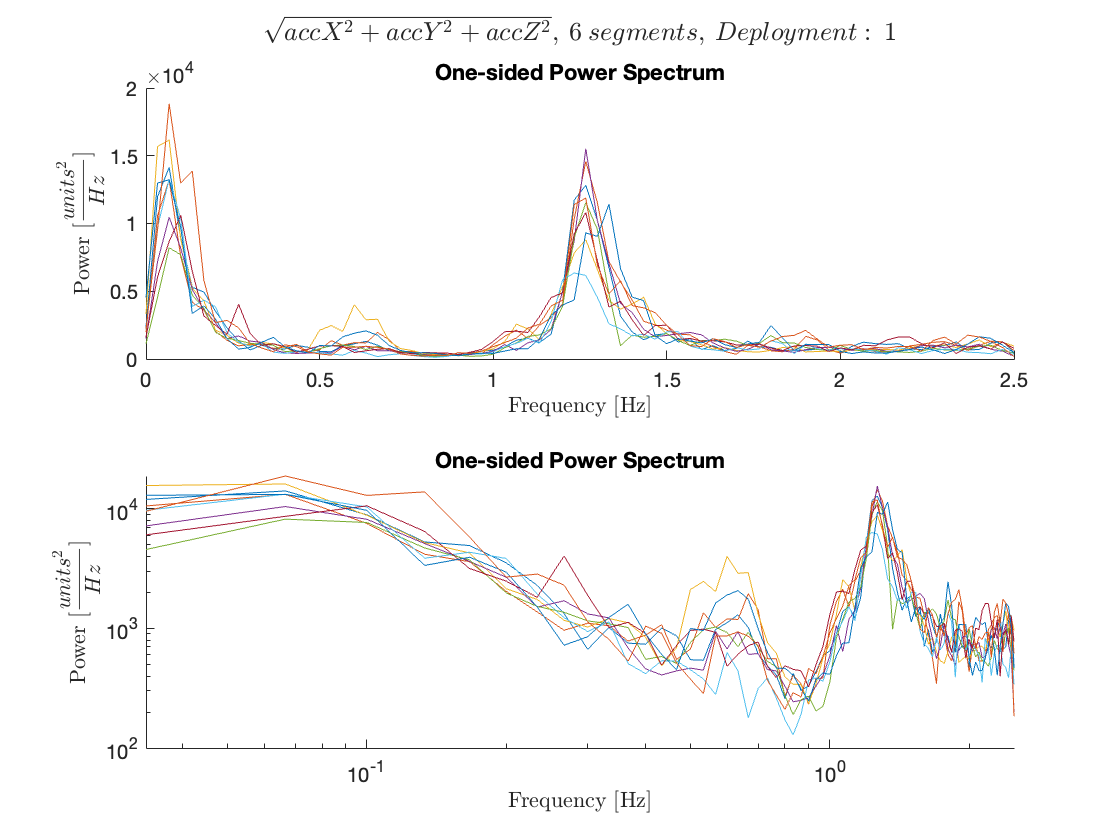
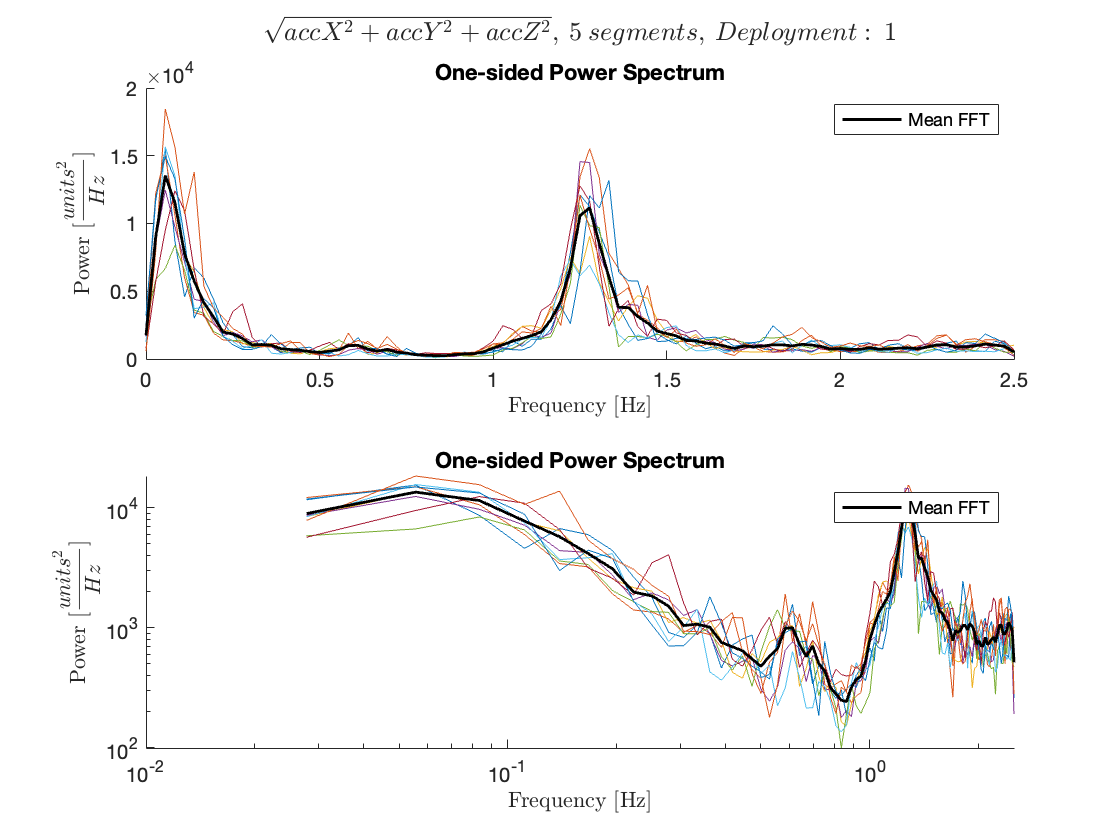
added bode plot of filter

diff --git a/Gabe_Data_Analysis/gabe_data_analysis.m b/Gabe_Data_Analysis/gabe_data_analysis.m
@@ -4,13 +4,11 @@ clc;
 
 % Author: Gabriel Gekas
 
-deployment = 1; % choose deployment
+deployment = 2; % choose deployment
 
 dirpath = strrep(pwd, 'Gabe_Data_Analysis', 'drifter'); % get data directory
 dirs = {'/data_dep1', '/data_dep2'}; % define deployments
 DIR = [dirpath, dirs{deployment}];
-start_index = [3, 1]; % start of data file deployment
-end_index = [11, 10]; % end of data file deployment
 
 csvFiles = dir(fullfile(DIR, '*.CSV')); % gets all .csv files
 for i = 1:length(csvFiles)
@@ -19,30 +17,36 @@ for i = 1:length(csvFiles)
     data{i} = readtable(filepath);
 end
 
+start_index = [3, 13]; % start of data file deployment
+end_index = [11, length(csvFiles)-1]; % end of data file deployment
+
 fe = 5; % sampling rate in Hz
-fcut = 1/50; % cutoff frequencies for highpass filter
-order = 2; % order of butterworth highpass filter
+fcut = 1/40; % cutoff frequencies for highpass filter
+order = 4; % order of butterworth highpass filter
 count = 1;
+
+
+figure; hold on;
 for i = start_index(deployment):end_index(deployment)
-    % acc_x{count} = data{i}.accX;
-    % acc_y{count} = data{i}.accY;
-    % acc_z{count} = data{i}.accZ;
-    % 
-    % vel_x{count} = cumtrapz(acc_x{count});
-    % vel_y{count} = cumtrapz(acc_y{count});
-    % vel_z{count} = cumtrapz(acc_z{count});
-    % 
-    % disp_x{count} = cumtrapz(cumtrapz(acc_x{count}));
-    % disp_y{count} = cumtrapz(cumtrapz(acc_y{count}));
-    % disp_z{count} = cumtrapz(cumtrapz(acc_z{count}));
+    plot((i-1)*length(data{i}.accZ) + [1:length(data{i}.accZ)], data{i}.accZ)
+
     ACC = [data{i}.accX, data{i}.accY, data{i}.accZ]';
     [acc{count}, vel{count}, disp{count}] = compute_DISP_high_pass(ACC, fe, fcut, order);
 
     count = count + 1;
 end
 
+
+
+% %% plot the filter :
+% Ordercut=order;
+% Wcut=2*fcut/fe;
+% [b,a] = butter(Ordercut,Wcut,'high');
+% freqz(b,a,[],fe)
+
+
 dt = 1/fe;
-nseg = 6;
+nseg = 5;
 
 %% acceleration :
 for i = 1:count-1
@@ -52,23 +56,36 @@ for i = 1:count-1
 end
 
 figure; a = tiledlayout(2, 1);
-nexttile; hold on;
+nexttile(1); hold on;
+nexttile(2); hold on;
 for i = 1:count-1
+    nexttile(1);
     plot(fout{i}, Pout{i})
+    nexttile(2);
+    plot(fout{i}, Pout{i})
+
+    if i == 1
+        Pmat = Pout{i};
+    else
+        Pmat = [Pmat, Pout{i}];
+    end
 end
+nexttile(1);
+mean_line = plot(fout{1}, mean(Pmat, 2), 'k-', 'LineWidth', 1.4);
 title('One-sided Power Spectrum');
 ylabel('Power [$$ \frac{units^2}{Hz} $$]', 'Interpreter', 'latex');
 xlabel('Frequency [Hz]', 'Interpreter', 'latex');
+legend([mean_line], {'Mean FFT'})
 
-nexttile; hold on;
-for i = 1:count-1
-    line_obj(i) = plot(fout{i}, Pout{i});
-end
+nexttile(2);
+mean_line = plot(fout{1}, mean(Pmat, 2), 'k-', 'LineWidth', 1.4);
 set(gca, 'XScale','log', 'YScale','log')
 title('One-sided Power Spectrum');
 ylabel('Power [$$ \frac{units^2}{Hz} $$]', 'Interpreter', 'latex');
 xlabel('Frequency [Hz]', 'Interpreter', 'latex');
+legend([mean_line], {'Mean FFT'})
 title(a, ['$\sqrt{accX^2 + accY^2 + accZ^2}, \:', num2str(nseg), '\: segments', ', \: Deployment: \:', num2str(deployment), '$'], 'Interpreter', 'latex')
+
 
 %% velocity :
 for i = 1:count-1
@@ -78,23 +95,36 @@ for i = 1:count-1
 end
 
 figure; a = tiledlayout(2, 1);
-nexttile; hold on;
+nexttile(1); hold on;
+nexttile(2); hold on;
 for i = 1:count-1
+    nexttile(1);
     plot(fout{i}, Pout{i})
+    nexttile(2);
+    plot(fout{i}, Pout{i})
+
+    if i == 1
+        Pmat = Pout{i};
+    else
+        Pmat = [Pmat, Pout{i}];
+    end
 end
+nexttile(1);
+mean_line = plot(fout{1}, mean(Pmat, 2), 'k-', 'LineWidth', 1.4);
 title('One-sided Power Spectrum');
 ylabel('Power [$$ \frac{units^2}{Hz} $$]', 'Interpreter', 'latex');
 xlabel('Frequency [Hz]', 'Interpreter', 'latex');
+legend([mean_line], {'Mean FFT'})
 
-nexttile; hold on;
-for i = 1:count-1
-    line_obj(i) = plot(fout{i}, Pout{i});
-end
+nexttile(2);
+mean_line = plot(fout{1}, mean(Pmat, 2), 'k-', 'LineWidth', 1.4);
 set(gca, 'XScale','log', 'YScale','log')
 title('One-sided Power Spectrum');
 ylabel('Power [$$ \frac{units^2}{Hz} $$]', 'Interpreter', 'latex');
 xlabel('Frequency [Hz]', 'Interpreter', 'latex');
-title(a, ['$\sqrt{accX^2 + accY^2 + accZ^2}, \:', num2str(nseg), '\: segments', ', \: Deployment: \:', num2str(deployment), '$'], 'Interpreter', 'latex')
+legend([mean_line], {'Mean FFT'})
+title(a, ['$\sqrt{velX^2 + velY^2 + velZ^2}, \:', num2str(nseg), '\: segments', ', \: Deployment: \:', num2str(deployment), '$'], 'Interpreter', 'latex')
+
 
 %% displacement :
 
@@ -105,28 +135,37 @@ for i = 1:count-1
 end
 
 figure; a = tiledlayout(2, 1);
-nexttile; hold on;
+nexttile(1); hold on;
+nexttile(2); hold on;
 for i = 1:count-1
+    nexttile(1);
     plot(fout{i}, Pout{i})
+    nexttile(2);
+    plot(fout{i}, Pout{i})
+
+    if i == 1
+        Pmat = Pout{i};
+    else
+        Pmat = [Pmat, Pout{i}];
+    end
 end
+nexttile(1);
+mean_line = plot(fout{1}, mean(Pmat, 2), 'k-', 'LineWidth', 1.4);
 title('One-sided Power Spectrum');
 ylabel('Power [$$ \frac{units^2}{Hz} $$]', 'Interpreter', 'latex');
 xlabel('Frequency [Hz]', 'Interpreter', 'latex');
+legend([mean_line], {'Mean FFT'})
 
-nexttile; hold on;
-for i = 1:count-1
-    line_obj(i) = plot(fout{i}, Pout{i});
-end
-
-% TODO: change these slopes (corresponds to wavenumber which is another ^-2)
-line1 = plot(fout{1}, fout{1}.^(-4), 'r-', 'LineWidth', 1.2);
-line2 = plot(fout{1}, fout{1}.^(-3), 'b-', 'LineWidth', 1.2);
+nexttile(2);
+mean_line = plot(fout{1}, mean(Pmat, 2), 'k-', 'LineWidth', 1.4);
+line1 = plot(fout{1}, fout{1}.^(-4), 'r-', 'LineWidth', 1.4);
+line2 = plot(fout{1}, fout{1}.^(-3), 'b-', 'LineWidth', 1.4);
 set(gca, 'XScale','log', 'YScale','log')
 title('One-sided Power Spectrum');
 ylabel('Power [$$ \frac{units^2}{Hz} $$]', 'Interpreter', 'latex');
 xlabel('Frequency [Hz]', 'Interpreter', 'latex');
-legend([line1, line2], {'f^{-4}', 'f^{-3}'})
-title(a, ['$\sqrt{accX^2 + accY^2 + accZ^2}, \:', num2str(nseg), '\: segments', ', \: Deployment: \:', num2str(deployment), '$'], 'Interpreter', 'latex')
+legend([mean_line, line1, line2], {'Mean FFT', 'f^{-4}', 'f^{-3}'})
+title(a, ['$\sqrt{X^2 + Y^2 + Z^2}, \:', num2str(nseg), '\: segments', ', \: Deployment: \:', num2str(deployment), '$'], 'Interpreter', 'latex')
 
 
 function [Pout, fout, errbars] = gabespectra(x, dt, nseg)
